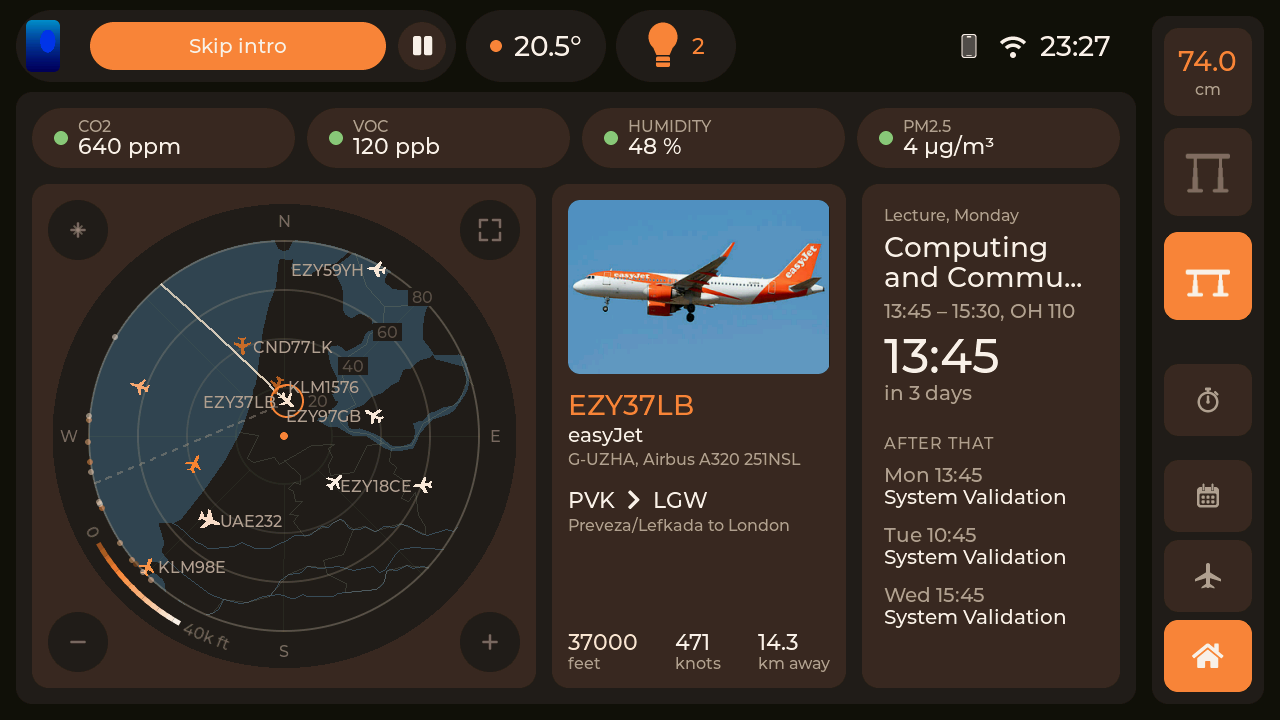
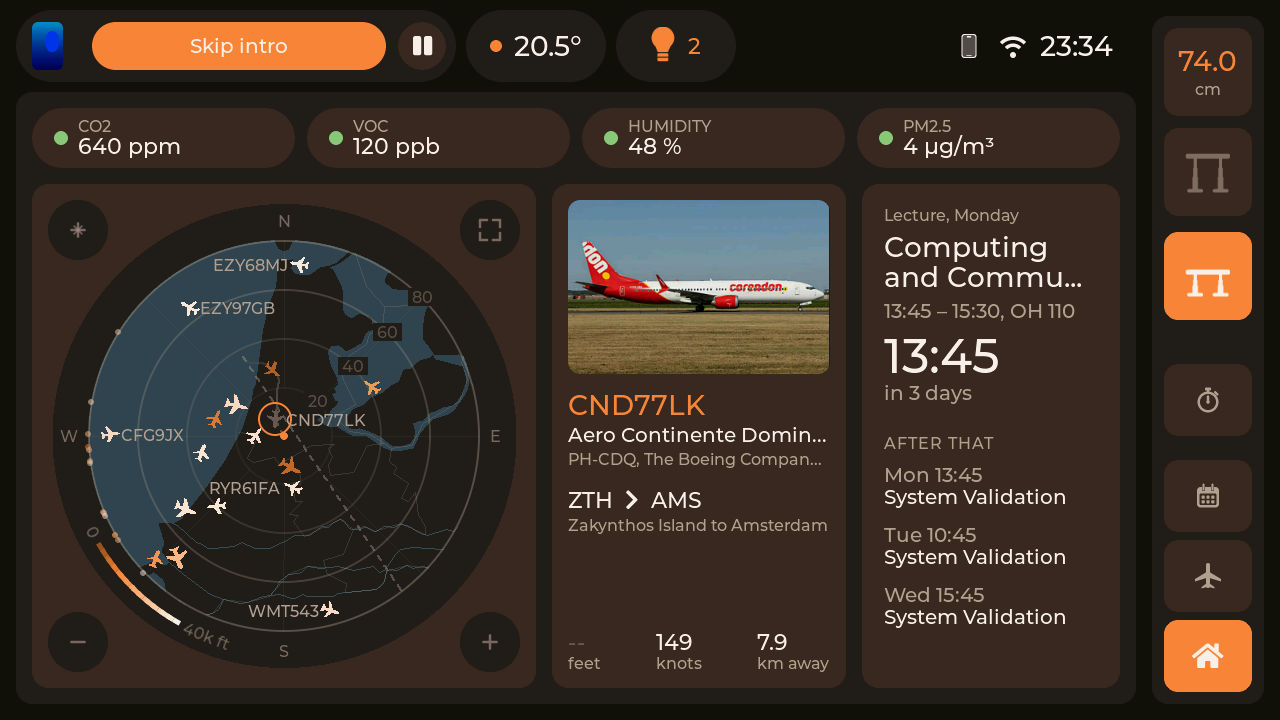
Keep the bar's cover inside its slot's round end, where a poster's corners stood out past it; the bulb a little smaller, and alone in the middle of its slot while the lights are off

diff --git a/components/ui/control_bar.cpp b/components/ui/control_bar.cpp
@@ -25,7 +25,10 @@ constexpr std::int32_t MEDIA_W      = 440;
 constexpr std::int32_t HEAT_W       = 140;
 constexpr std::int32_t LIGHTS_W     = 120;
 constexpr std::uint32_t SKIP_CHECK_MS = 500;
-constexpr std::int32_t THUMB        = 52;
+constexpr std::int32_t THUMB        = 48;
+// Far enough in from the pill's round end that the cover's corners stay inside its curve.
+constexpr std::int32_t THUMB_INSET  = (TOP_H - THUMB) / 2 + 4;
+constexpr int          BULB_SCALE   = 200;  // of LV_SCALE_NONE: the bulb a little smaller than Home drew it
 constexpr std::int32_t THUMB_RADIUS = 6;   // small enough to leave a narrow poster its corners
 constexpr std::int32_t PLAY_D       = 48;
 constexpr std::int32_t TEXT_GAP     = 12;
@@ -378,9 +381,10 @@ void build_media_slot(lv_obj_t *bar)
     lv_obj_add_event_cb(s_media_slot, media_touched, LV_EVENT_CLICKED, nullptr);
     lv_obj_add_event_cb(s_media_slot, media_touched, LV_EVENT_LONG_PRESSED, nullptr);
     build_cover(s_slot_cover, s_media_slot, THUMB, THUMB_RADIUS);
-    lv_obj_align(s_slot_cover.frame, LV_ALIGN_LEFT_MID, 0, 0);
+    const std::int32_t inset = THUMB_INSET - SLOT_PAD;
+    lv_obj_align(s_slot_cover.frame, LV_ALIGN_LEFT_MID, inset, 0);
 
-    const std::int32_t text_x = THUMB + TEXT_GAP;
+    const std::int32_t text_x = inset + THUMB + TEXT_GAP;
     const std::int32_t text_w = MEDIA_W - 2 * SLOT_PAD - text_x - PLAY_D - TEXT_GAP;
     s_slot_title              = one_line(s_media_slot, theme::text, fonts::size_20(), text_w);
     lv_obj_align(s_slot_title, LV_ALIGN_LEFT_MID, text_x, -11);
@@ -582,6 +586,7 @@ void paint_lights_slot()
     }
     // On in the accent, rather than the whole slot filled with it.
     theme::set_text(s_lights_text, text);
+    lv_obj_set_hidden(s_lights_text, text[0] == '\0');  // the bulb alone, in the middle, while all are off
     theme::set_text_color(s_lights_text, lights.on ? theme::primary : theme::secondary);
     for (std::uint32_t i = 0; i < lv_obj_get_child_count(s_lights_bulb); ++i) {
         lv_obj_set_style_image_recolor(lv_obj_get_child(s_lights_bulb, static_cast<std::int32_t>(i)),
@@ -630,12 +635,14 @@ void build_lights_slot(lv_obj_t *bar)
     // The whole bulb, the glass over its base, as Home's lights were drawn.
     s_lights_bulb = lv_obj_create(s_lights_slot);
     lv_obj_remove_style_all(s_lights_bulb);
-    lv_obj_set_size(s_lights_bulb, icons::bulb_glass_icon.header.w, icons::bulb_glass_icon.header.h);
+    lv_obj_set_size(s_lights_bulb, icons::bulb_glass_icon.header.w * BULB_SCALE / LV_SCALE_NONE,
+                    icons::bulb_glass_icon.header.h * BULB_SCALE / LV_SCALE_NONE);
     lv_obj_set_clickable(s_lights_bulb, false);
     for (const lv_image_dsc_t *part : {&icons::bulb_glass_icon, &icons::bulb_base_icon}) {
         lv_obj_t *image = lv_image_create(s_lights_bulb);
         lv_image_set_src(image, part);
-        lv_obj_set_pos(image, 0, 0);
+        lv_image_set_scale(image, BULB_SCALE);
+        lv_obj_center(image);
         lv_obj_set_style_image_recolor_opa(image, LV_OPA_COVER, 0);
         lv_obj_set_clickable(image, false);
     }
